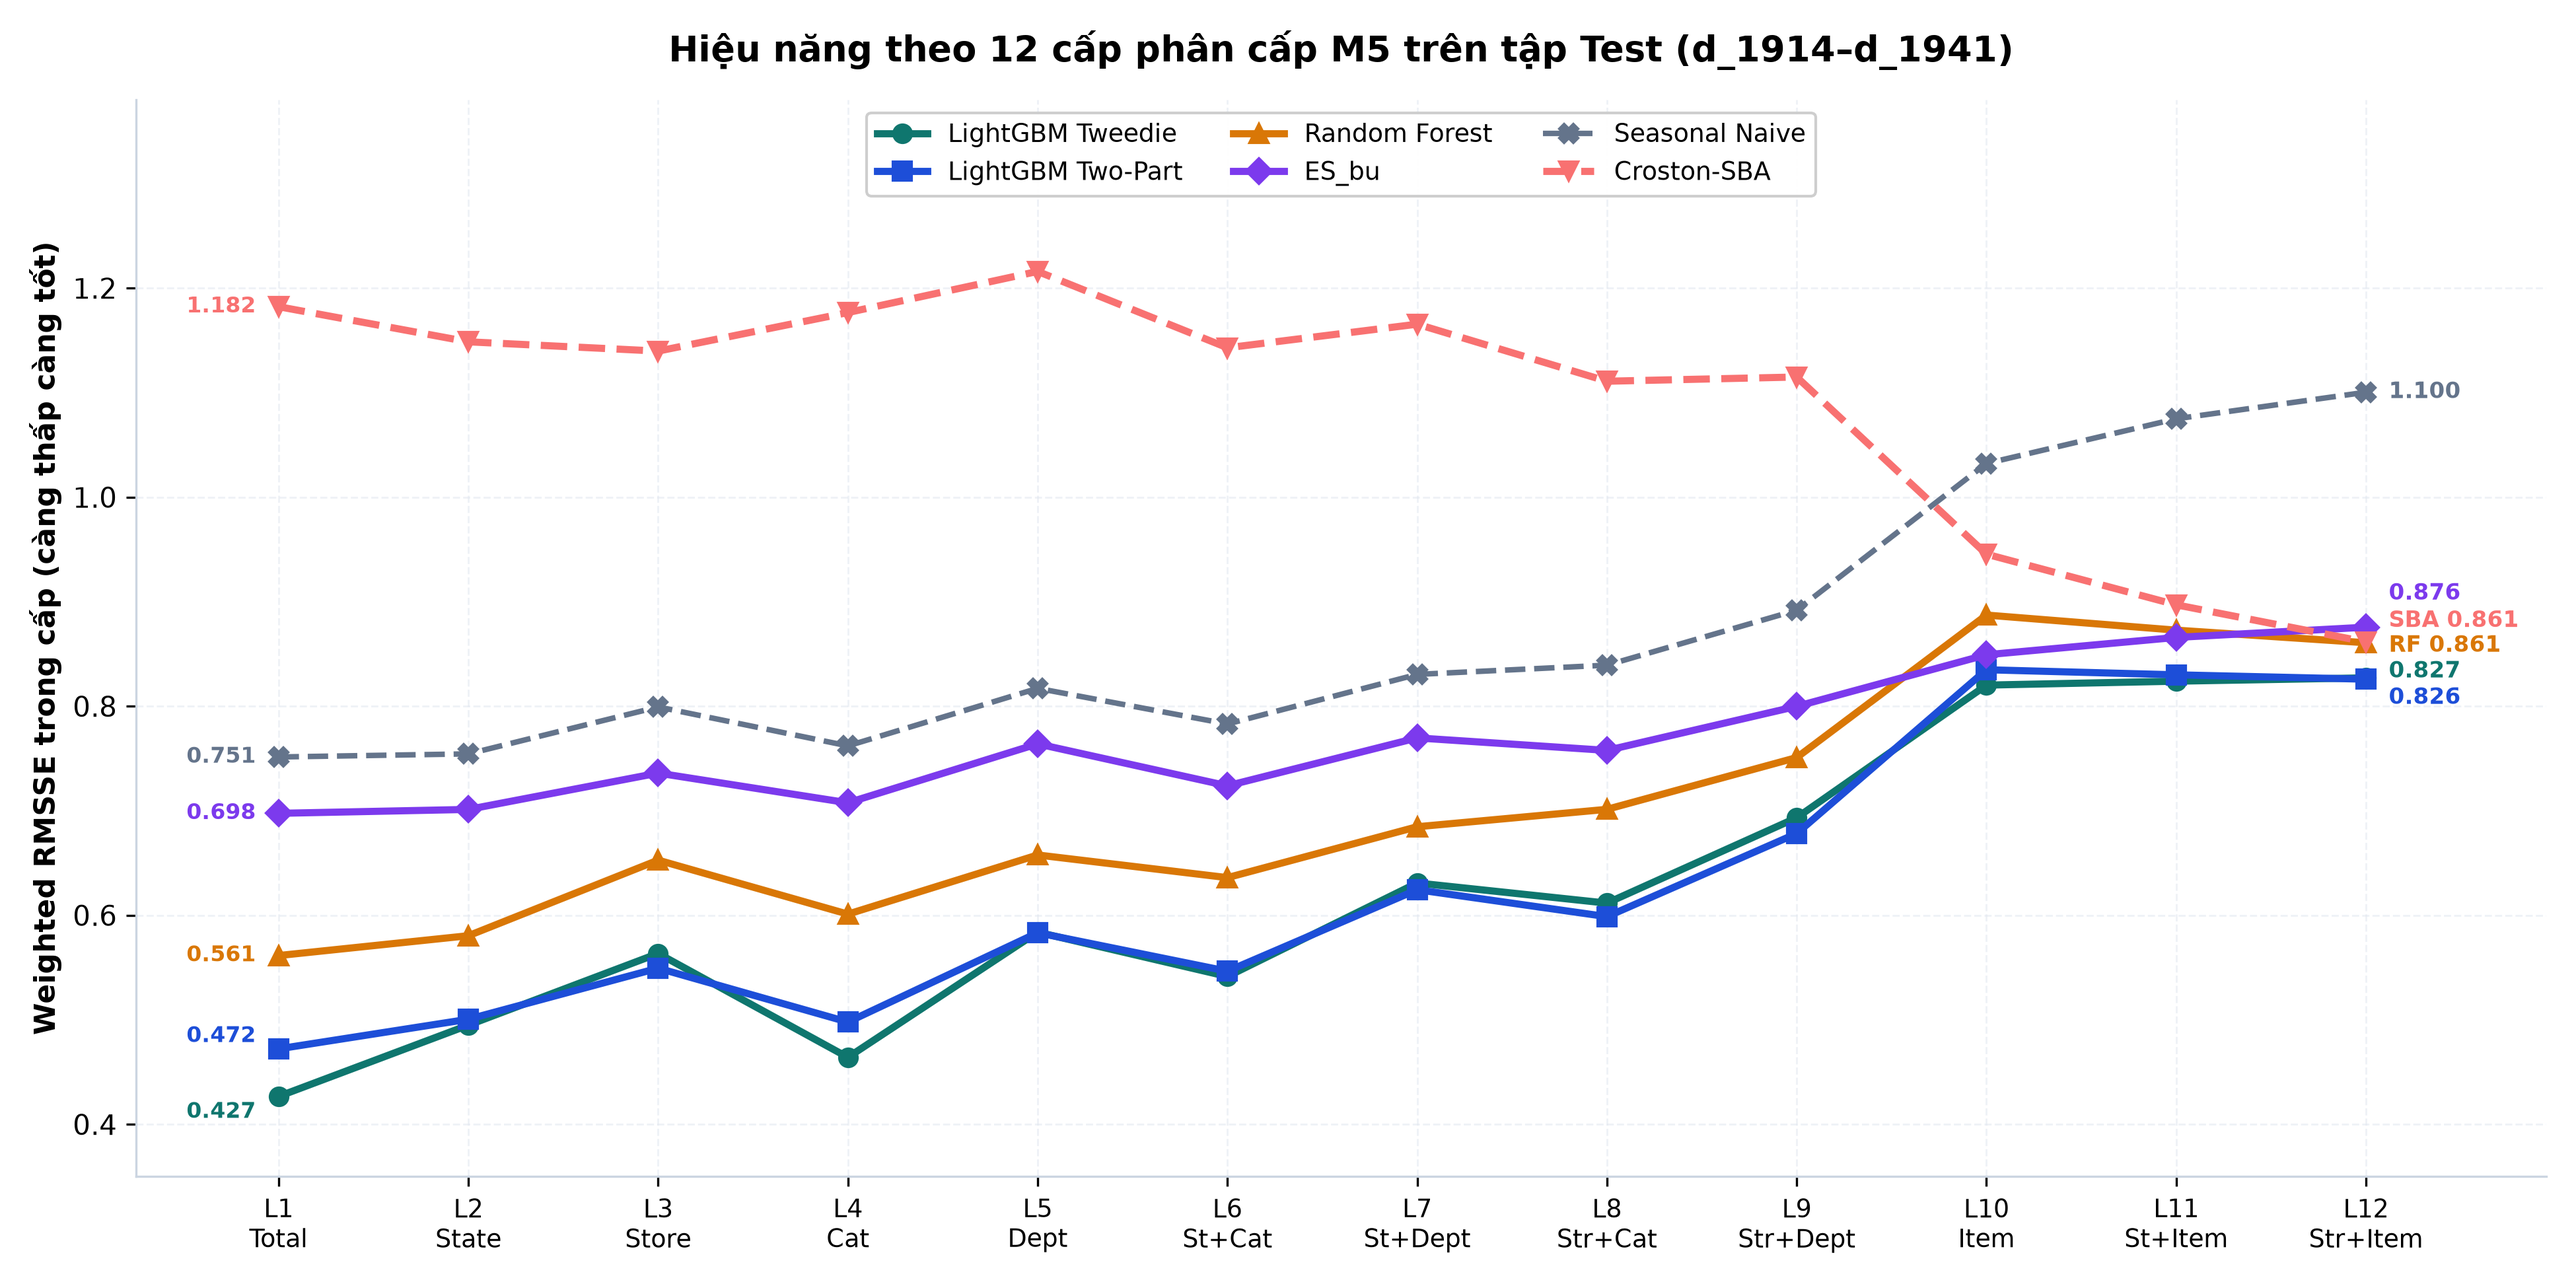
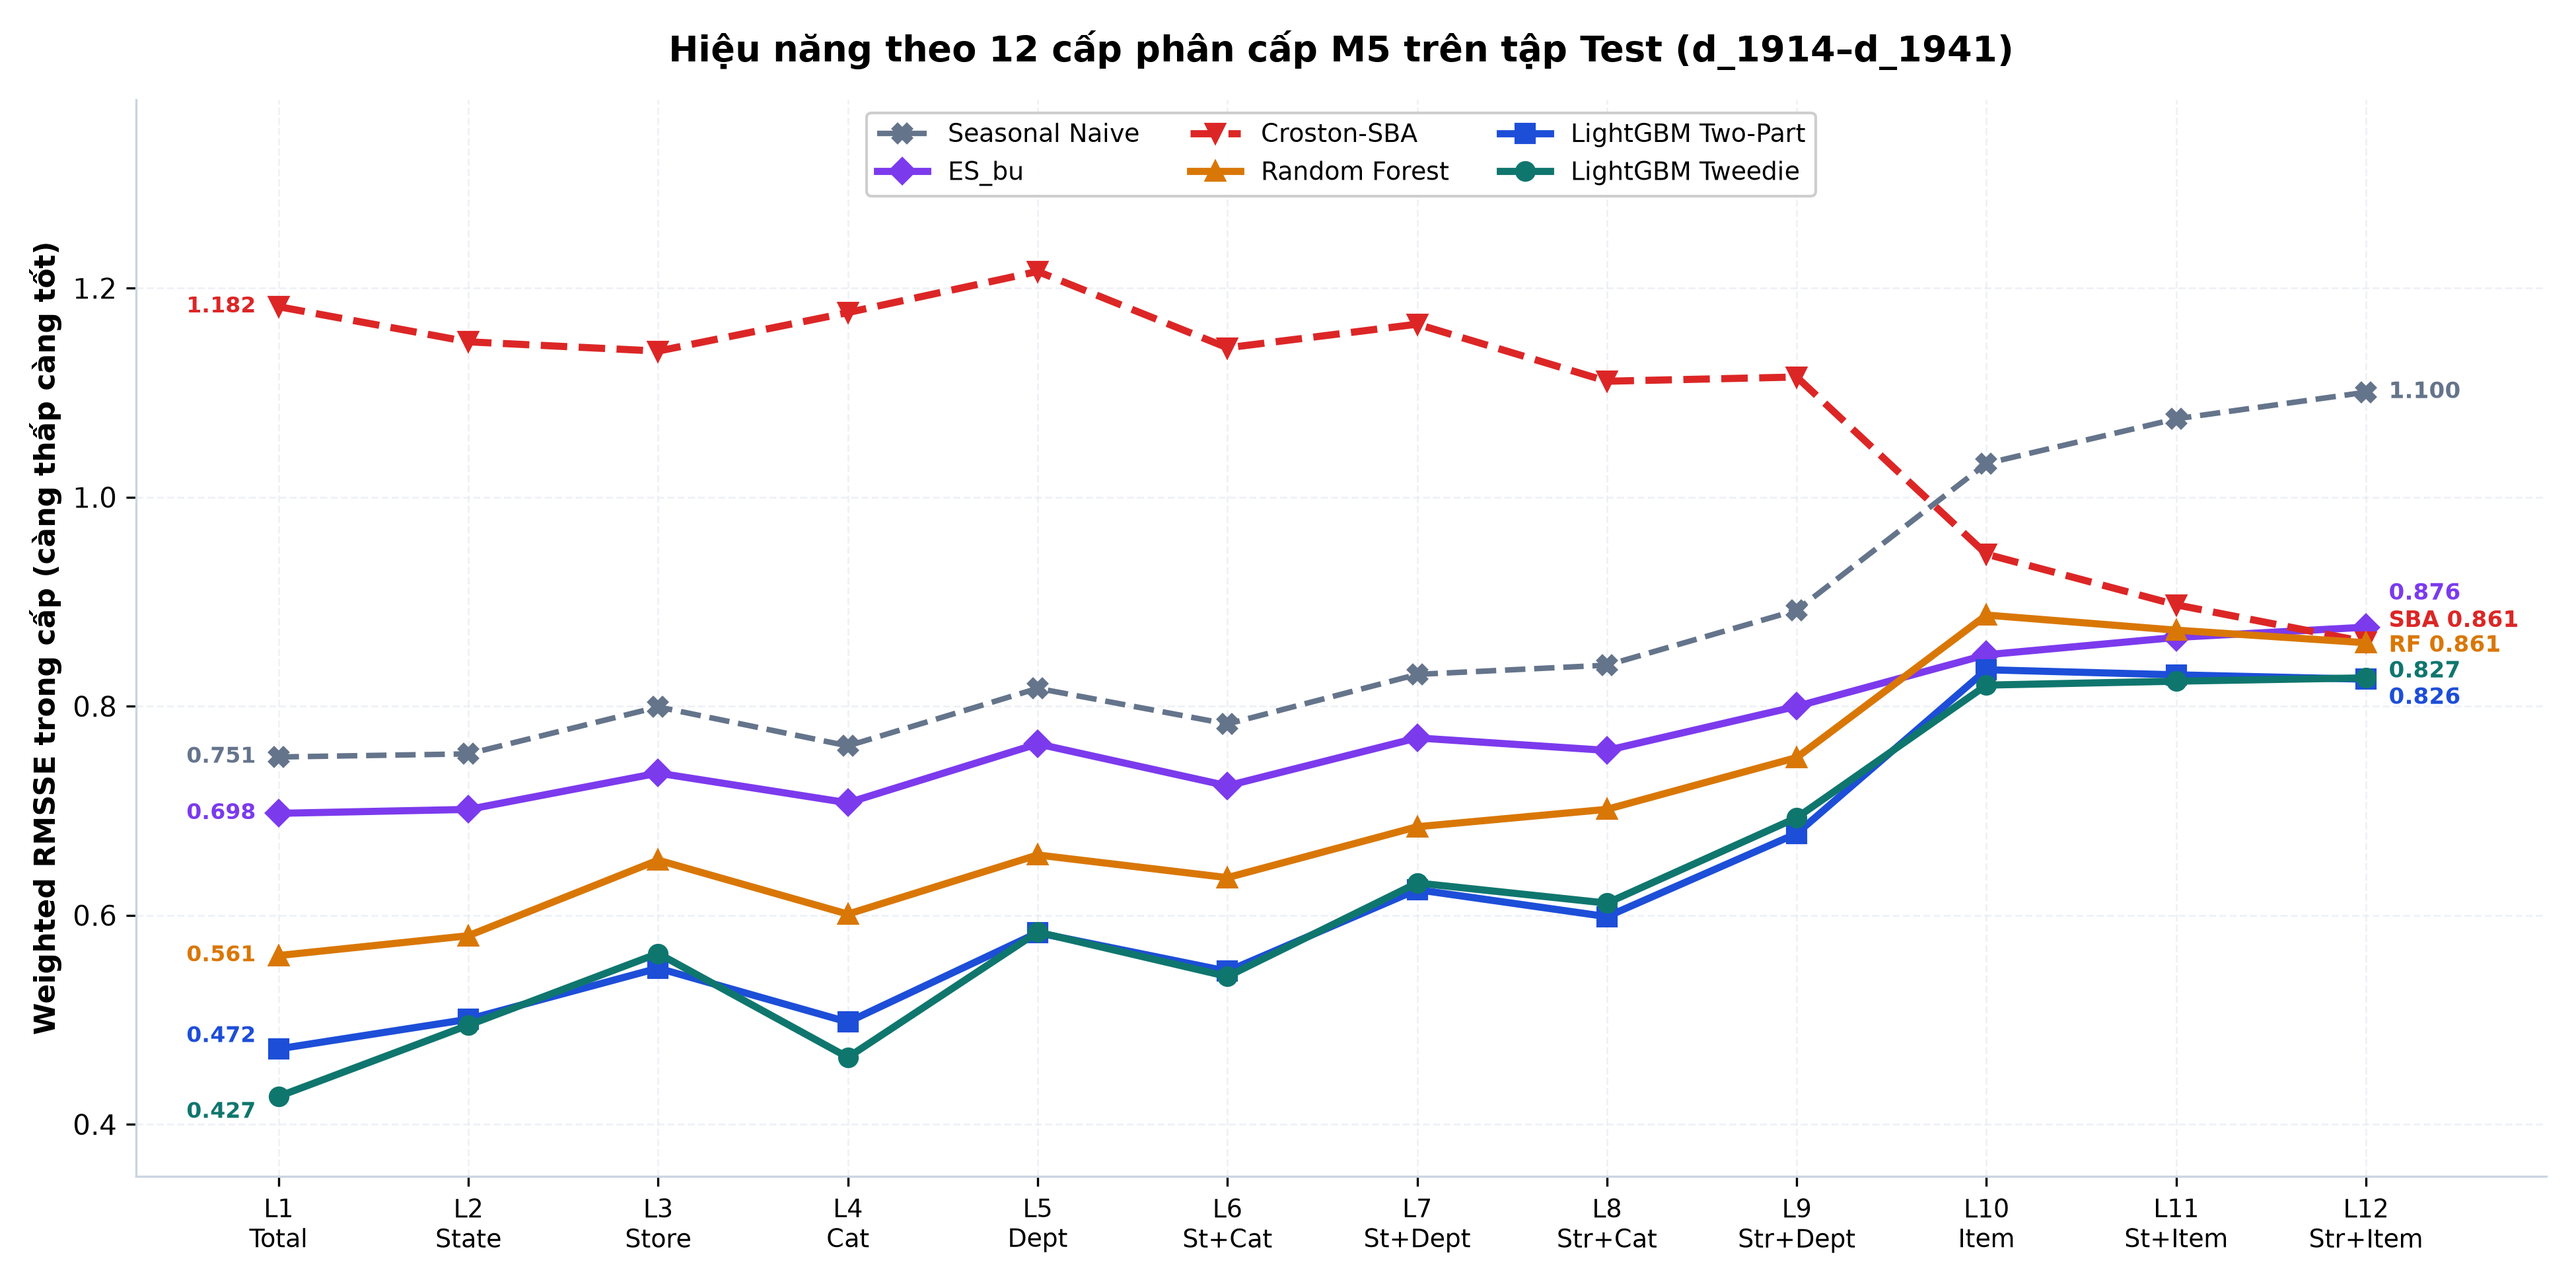
Group 6 methods into 3 Benchmarks first and 3 ML models after

diff --git a/comparison/generate_comparison_charts.py b/comparison/generate_comparison_charts.py
@@ -26,14 +26,22 @@ plt.rcParams.update({
     "axes.facecolor": "white",
 })
 
+MODEL_ORDER = [
+    "Seasonal Naive",
+    "ES_bu",
+    "Croston-SBA",
+    "Random Forest",
+    "LightGBM Two-Part",
+    "LightGBM Tweedie",
+]
+
 MODEL_COLORS = {
-    "LightGBM Tweedie": "#0F766E",
-    "LightGBM Two-Part": "#1D4ED8",
-    "Random Forest": "#D97706",
-    "ES_bu": "#7C3AED",
     "Seasonal Naive": "#64748B",
-    "Croston": "#DC2626",
-    "Croston-SBA": "#F87171",
+    "ES_bu": "#7C3AED",
+    "Croston-SBA": "#DC2626",
+    "Random Forest": "#D97706",
+    "LightGBM Two-Part": "#1D4ED8",
+    "LightGBM Tweedie": "#0F766E",
 }
 
 
@@ -104,7 +112,6 @@ def load_all_metrics():
 
     tw_act, tw_pred, tw_bias = get_bm_total_bias("LightGBM_Tweedie_20261124")
     es_act, es_pred, es_bias = get_bm_total_bias("ES_bu")
-    cr_act, cr_pred, cr_bias = get_bm_total_bias("Croston")
     cs_act, cs_pred, cs_bias = get_bm_total_bias("Croston_SBA")
 
     rf_row = rf_comp[rf_comp.model == "random_forest"].iloc[0]
@@ -212,23 +219,6 @@ def load_all_metrics():
             "bias_pct": float(sn_row.forecast_bias_percent),
         },
         {
-            "model": "Croston",
-            "group": "Benchmark",
-            "wrmsse_val": get_bm("Croston", "validation"),
-            "val_note": "published",
-            "wrmsse_test": get_bm("Croston", "test"),
-            "l1_test": bm_lvl("Croston", 1),
-            "l12_test": bm_lvl("Croston", 12),
-            "frequent_l12": dg_val("Croston", "frequent", "weighted_RMSSE"),
-            "intermittent_l12": dg_val("Croston", "intermittent", "weighted_RMSSE"),
-            "frequent_bias_pct": dg_val("Croston", "frequent", "bias_pct"),
-            "intermittent_bias_pct": dg_val("Croston", "intermittent", "bias_pct"),
-            "demand_group_origin": 1913,
-            "actual_sales": cr_act,
-            "forecast_sales": cr_pred,
-            "bias_pct": cr_bias,
-        },
-        {
             "model": "Croston-SBA",
             "group": "Benchmark",
             "wrmsse_val": get_bm("Croston_SBA", "validation"),
@@ -246,16 +236,16 @@ def load_all_metrics():
             "bias_pct": cs_bias,
         },
     ]
-    summary = pd.DataFrame(rows).sort_values("wrmsse_test").reset_index(drop=True)
+    summary = pd.DataFrame(rows).set_index("model").loc[MODEL_ORDER].reset_index()
 
     # 12-level table
     lvl_series = {
-        "LightGBM Tweedie": tw_levels.set_index("level")["weighted_RMSSE"],
-        "LightGBM Two-Part": tp_levels.set_index("level")["weighted_RMSSE"],
-        "Random Forest": rf_levels[rf_levels.model == "random_forest"].set_index("level")["wrmsse_within_level"],
-        "ES_bu": bm_levels[(bm_levels.model == "ES_bu") & (bm_levels.split == "test")].set_index("level")["weighted_RMSSE"],
         "Seasonal Naive": rf_levels[rf_levels.model == "seasonal_naive"].set_index("level")["wrmsse_within_level"],
+        "ES_bu": bm_levels[(bm_levels.model == "ES_bu") & (bm_levels.split == "test")].set_index("level")["weighted_RMSSE"],
         "Croston-SBA": bm_levels[(bm_levels.model == "Croston_SBA") & (bm_levels.split == "test")].set_index("level")["weighted_RMSSE"],
+        "Random Forest": rf_levels[rf_levels.model == "random_forest"].set_index("level")["wrmsse_within_level"],
+        "LightGBM Two-Part": tp_levels.set_index("level")["weighted_RMSSE"],
+        "LightGBM Tweedie": tw_levels.set_index("level")["weighted_RMSSE"],
     }
     levels_df = pd.DataFrame(lvl_series)
 
@@ -263,7 +253,6 @@ def load_all_metrics():
     local_map = {
         "LightGBM Tweedie": "LightGBM_Tweedie_20261124",
         "ES_bu": "ES_bu",
-        "Croston": "Croston",
         "Croston-SBA": "Croston_SBA",
     }
 
@@ -350,11 +339,11 @@ def load_all_metrics():
 
 
 def plot_chart_1(summary: pd.DataFrame):
-    df = summary.sort_values("wrmsse_test", ascending=True).reset_index(drop=True)
+    df = summary.set_index("model").loc[MODEL_ORDER].reset_index()
     y = np.arange(len(df))
     h = 0.36
 
-    fig, ax = plt.subplots(figsize=(12.2, 7.0))
+    fig, ax = plt.subplots(figsize=(12.2, 6.8))
     ax.barh(y - h / 2, df["wrmsse_test"], height=h,
             color=[MODEL_COLORS[m] for m in df["model"]],
             label="Test (d_1914–d_1941)", edgecolor="white", linewidth=0.8)
@@ -365,7 +354,12 @@ def plot_chart_1(summary: pd.DataFrame):
 
     sn_test = float(df.loc[df.model == "Seasonal Naive", "wrmsse_test"].iloc[0])
     ax.axvline(sn_test, color="#475569", linestyle="--", linewidth=1.2, zorder=1)
-    ax.text(sn_test + 0.015, 1.55, f"Mốc Seasonal Naive\n({sn_test:.4f})",
+    ax.axhline(2.5, color="#94A3B8", linestyle=":", linewidth=1.2, zorder=1)
+    ax.text(0.015, 2.42, "▲ Nhóm Benchmark thống kê", fontsize=8.5, fontweight="bold", color="#475569", va="bottom",
+            bbox=dict(facecolor="white", edgecolor="none", alpha=0.85, pad=0.8))
+    ax.text(0.015, 2.58, "▼ Nhóm Machine Learning", fontsize=8.5, fontweight="bold", color="#0F766E", va="top",
+            bbox=dict(facecolor="white", edgecolor="none", alpha=0.85, pad=0.8))
+    ax.text(sn_test + 0.015, 4.0, f"Mốc Seasonal Naive\n({sn_test:.4f})",
             color="#334155", fontsize=9, fontweight="bold", va="center", zorder=4,
             bbox=dict(facecolor="white", edgecolor="none", alpha=0.85, pad=1.0))
 
@@ -460,7 +454,7 @@ def plot_chart_2(levels_df: pd.DataFrame):
 
 
 def plot_chart_3(summary: pd.DataFrame):
-    df = summary.dropna(subset=["frequent_l12", "intermittent_l12"]).sort_values("wrmsse_test").reset_index(drop=True)
+    df = summary.set_index("model").loc[MODEL_ORDER].reset_index()
     x = np.arange(len(df))
     w = 0.35
 
@@ -468,25 +462,27 @@ def plot_chart_3(summary: pd.DataFrame):
 
     b1 = ax1.bar(x - w / 2, df["frequent_l12"], width=w, color="#2563EB", label="Frequent (~9,0% số chuỗi | ~36,3% sản lượng)")
     b2 = ax1.bar(x + w / 2, df["intermittent_l12"], width=w, color="#F59E0B", label="Intermittent (~91,0% số chuỗi | ~63,7% sản lượng)")
+    ax1.axvline(2.5, color="#94A3B8", linestyle=":", linewidth=1.2)
     for bar in list(b1) + list(b2):
         val = bar.get_height()
         ax1.text(bar.get_x() + bar.get_width() / 2, val + 0.012, f"{val:.3f}",
                  ha="center", va="bottom", fontsize=8.5, fontweight="bold", color="#0F172A")
 
-    labels = [m.replace(" (", "\n(") + (" *" if "Two-Part" in m else "") for m in df["model"]]
+    labels = [m + (" *" if "Two-Part" in m else "") for m in df["model"]]
     ax1.set_xticks(x)
-    ax1.set_xticklabels(labels, fontsize=8.5, fontweight="bold", rotation=18, ha="right")
+    ax1.set_xticklabels(labels, fontsize=8.8, fontweight="bold", rotation=18, ha="right")
     ax1.set_ylim(0, 1.28)
     ax1.set_ylabel("Weighted RMSSE cấp 12 (càng thấp càng tốt)", fontsize=10, fontweight="bold")
     ax1.set_title("A. Sai số theo tần suất bán (Frequent vs Intermittent)", fontsize=11.5, fontweight="bold", pad=10)
     ax1.grid(axis="y", alpha=0.6)
     ax1.spines["top"].set_visible(False)
     ax1.spines["right"].set_visible(False)
-    ax1.legend(loc="upper left", fontsize=8.5, frameon=True)
+    ax1.legend(loc="upper right", fontsize=8.5, frameon=True)
 
     b3 = ax2.bar(x - w / 2, df["frequent_bias_pct"], width=w, color="#2563EB", alpha=0.85, label="Frequent Bias %")
     b4 = ax2.bar(x + w / 2, df["intermittent_bias_pct"], width=w, color="#F59E0B", alpha=0.85, label="Intermittent Bias %")
     ax2.axhline(0, color="#0F172A", linewidth=1.0)
+    ax2.axvline(2.5, color="#94A3B8", linestyle=":", linewidth=1.2)
     for bar in list(b3) + list(b4):
         val = bar.get_height()
         va = "bottom" if val >= 0 else "top"
@@ -514,15 +510,16 @@ def plot_chart_3(summary: pd.DataFrame):
 
 
 def plot_chart_4(summary: pd.DataFrame):
-    df = summary.sort_values("wrmsse_test").reset_index(drop=True)
+    df = summary.set_index("model").loc[MODEL_ORDER].reset_index()
     y = np.arange(len(df))
     actual = float(df["actual_sales"].iloc[0])
 
-    fig, (ax1, ax2) = plt.subplots(1, 2, figsize=(14.5, 6.2), gridspec_kw={"width_ratios": [1.15, 1.0]})
+    fig, (ax1, ax2) = plt.subplots(1, 2, figsize=(14.5, 6.0), gridspec_kw={"width_ratios": [1.15, 1.0]})
 
-    ax1.barh(y, df["forecast_sales"] / 1e6, height=0.58,
+    ax1.barh(y, df["forecast_sales"] / 1e6, height=0.56,
              color=[MODEL_COLORS[m] for m in df["model"]], alpha=0.9)
     ax1.axvline(actual / 1e6, color="#DC2626", linestyle="--", linewidth=1.8, label=f"Thực tế: {actual:,.0f}".replace(",", "."))
+    ax1.axhline(2.5, color="#94A3B8", linestyle=":", linewidth=1.2)
     for i, row in df.iterrows():
         val = row["forecast_sales"]
         ax1.text(val / 1e6 + 0.012, i, f"{val:,.0f}".replace(",", "."),
@@ -540,8 +537,9 @@ def plot_chart_4(summary: pd.DataFrame):
     ax1.legend(loc="lower right", frameon=True)
 
     colors_bias = ["#0F766E" if b >= 0 else "#2563EB" if abs(b) < 5 else "#D97706" for b in df["bias_pct"]]
-    ax2.barh(y, df["bias_pct"], height=0.58, color=colors_bias, alpha=0.9)
+    ax2.barh(y, df["bias_pct"], height=0.56, color=colors_bias, alpha=0.9)
     ax2.axvline(0, color="#0F172A", linewidth=1.1)
+    ax2.axhline(2.5, color="#94A3B8", linestyle=":", linewidth=1.2)
     for i, row in df.iterrows():
         b = row["bias_pct"]
         ha = "left" if b >= 0 else "right"
@@ -566,34 +564,24 @@ def plot_chart_4(summary: pd.DataFrame):
 
 
 def plot_chart_5(summary: pd.DataFrame):
-    df = summary.dropna(subset=["frequent_l12"]).sort_values("wrmsse_test").reset_index(drop=True)
+    df = summary.set_index("model").loc[MODEL_ORDER].reset_index()
 
-    fig, (ax1, ax2) = plt.subplots(1, 2, figsize=(15, 6.4), gridspec_kw={"width_ratios": [1.0, 1.35]})
+    fig, (ax1, ax2) = plt.subplots(1, 2, figsize=(15, 6.2), gridspec_kw={"width_ratios": [1.0, 1.35]})
 
-    short_names = {
-        "LightGBM Tweedie": "LightGBM Tweedie",
-        "LightGBM Two-Part": "C7_EVENTS",
-        "Random Forest": "Random Forest",
-        "ES_bu": "ES_bu",
-        "Seasonal Naive": "Seasonal Naive",
-        "Croston": "Croston",
-        "Croston-SBA": "Croston-SBA",
-    }
     label_xy = {
         "LightGBM Tweedie": (0.41, 0.875),
         "LightGBM Two-Part": (0.44, 0.785),
         "Random Forest": (0.56, 0.905),
         "ES_bu": (0.72, 0.925),
         "Seasonal Naive": (0.78, 1.105),
-        "Croston": (1.10, 0.905),
-        "Croston-SBA": (1.14, 0.825),
+        "Croston-SBA": (1.06, 0.825),
     }
-    for _, row in summary.iterrows():
+    for _, row in df.iterrows():
         m = row["model"]
         ax1.scatter(row["l1_test"], row["l12_test"], s=130, color=MODEL_COLORS[m],
                     edgecolors="white", linewidth=1.5, zorder=4)
         tx, ty = label_xy[m]
-        ax1.annotate(short_names[m], xy=(row["l1_test"], row["l12_test"]), xytext=(tx, ty),
+        ax1.annotate(m, xy=(row["l1_test"], row["l12_test"]), xytext=(tx, ty),
                      fontsize=8.5, fontweight="bold", color=MODEL_COLORS[m],
                      arrowprops=dict(arrowstyle="-", color=MODEL_COLORS[m], lw=0.8, alpha=0.7))
 
@@ -685,21 +673,14 @@ def plot_chart_6(daily_df: pd.DataFrame):
 
 def plot_chart_7(store_df: pd.DataFrame):
     stores = ["CA_1", "CA_2", "CA_3", "CA_4", "TX_1", "TX_2", "TX_3", "WI_1", "WI_2", "WI_3"]
-    models = [
-        "LightGBM Tweedie",
-        "LightGBM Two-Part",
-        "Random Forest",
-        "ES_bu",
-        "Seasonal Naive",
-        "Croston-SBA",
-    ]
+    models = MODEL_ORDER
     piv = store_df.pivot(index="store_id", columns="model", values="bias_pct").loc[stores, models]
 
     fig, (ax1, ax2) = plt.subplots(1, 2, figsize=(15, 6.2), gridspec_kw={"width_ratios": [1.35, 1.0]})
 
     # Panel A: Grouped lines/markers across 10 stores
     x = np.arange(len(stores))
-    markers = ["o", "s", "^", "D", "X", "v"]
+    markers = ["X", "D", "v", "^", "s", "o"]
     ax1.axhline(0, color="#0F172A", linewidth=1.1)
     for m, mk in zip(models, markers):
         ax1.plot(x, piv[m].values, marker=mk, markersize=6.5, linewidth=2.0,
@@ -717,7 +698,7 @@ def plot_chart_7(store_df: pd.DataFrame):
     vals = piv.values
     im = ax2.imshow(vals, cmap="RdBu", aspect="auto", vmin=-14, vmax=14)
     ax2.set_xticks(np.arange(len(models)))
-    ax2.set_xticklabels(["Tweedie", "C7_EVENTS", "RF", "ES_bu", "S.Naive", "Croston-SBA"],
+    ax2.set_xticklabels(["S.Naive", "ES_bu", "Croston-SBA", "RF", "Two-Part", "Tweedie"],
                         fontsize=8.5, fontweight="bold", rotation=20, ha="right")
     ax2.set_yticks(np.arange(len(stores)))
     ax2.set_yticklabels(stores, fontsize=9.5, fontweight="bold")
@@ -738,14 +719,7 @@ def plot_chart_7(store_df: pd.DataFrame):
 
 def plot_chart_8(cat_df: pd.DataFrame):
     cats = ["FOODS", "HOBBIES", "HOUSEHOLD"]
-    models = [
-        "LightGBM Tweedie",
-        "LightGBM Two-Part",
-        "Random Forest",
-        "ES_bu",
-        "Seasonal Naive",
-        "Croston-SBA",
-    ]
+    models = MODEL_ORDER
     piv_r = cat_df.pivot(index="cat_id", columns="model", values="weighted_RMSSE").loc[cats, models]
     piv_b = cat_df.pivot(index="cat_id", columns="model", values="bias_pct").loc[cats, models]
 

diff --git a/comparison/verify_comparison_data.py b/comparison/verify_comparison_data.py
@@ -26,7 +26,14 @@ def test_all_eight_charts_exist_and_non_empty():
 
 def test_summary_table_matches_published_sources():
     s = pd.read_csv(COMP / "summary_all_models.csv").set_index("model")
-    assert len(s) == 7
+    assert list(s.index) == [
+        "Seasonal Naive",
+        "ES_bu",
+        "Croston-SBA",
+        "Random Forest",
+        "LightGBM Two-Part",
+        "LightGBM Tweedie",
+    ]
     assert np.allclose(s["actual_sales"], 1_231_764.0)
     # Cross-check exact bias formula = 100 * (forecast/actual - 1)
     np.testing.assert_allclose(
